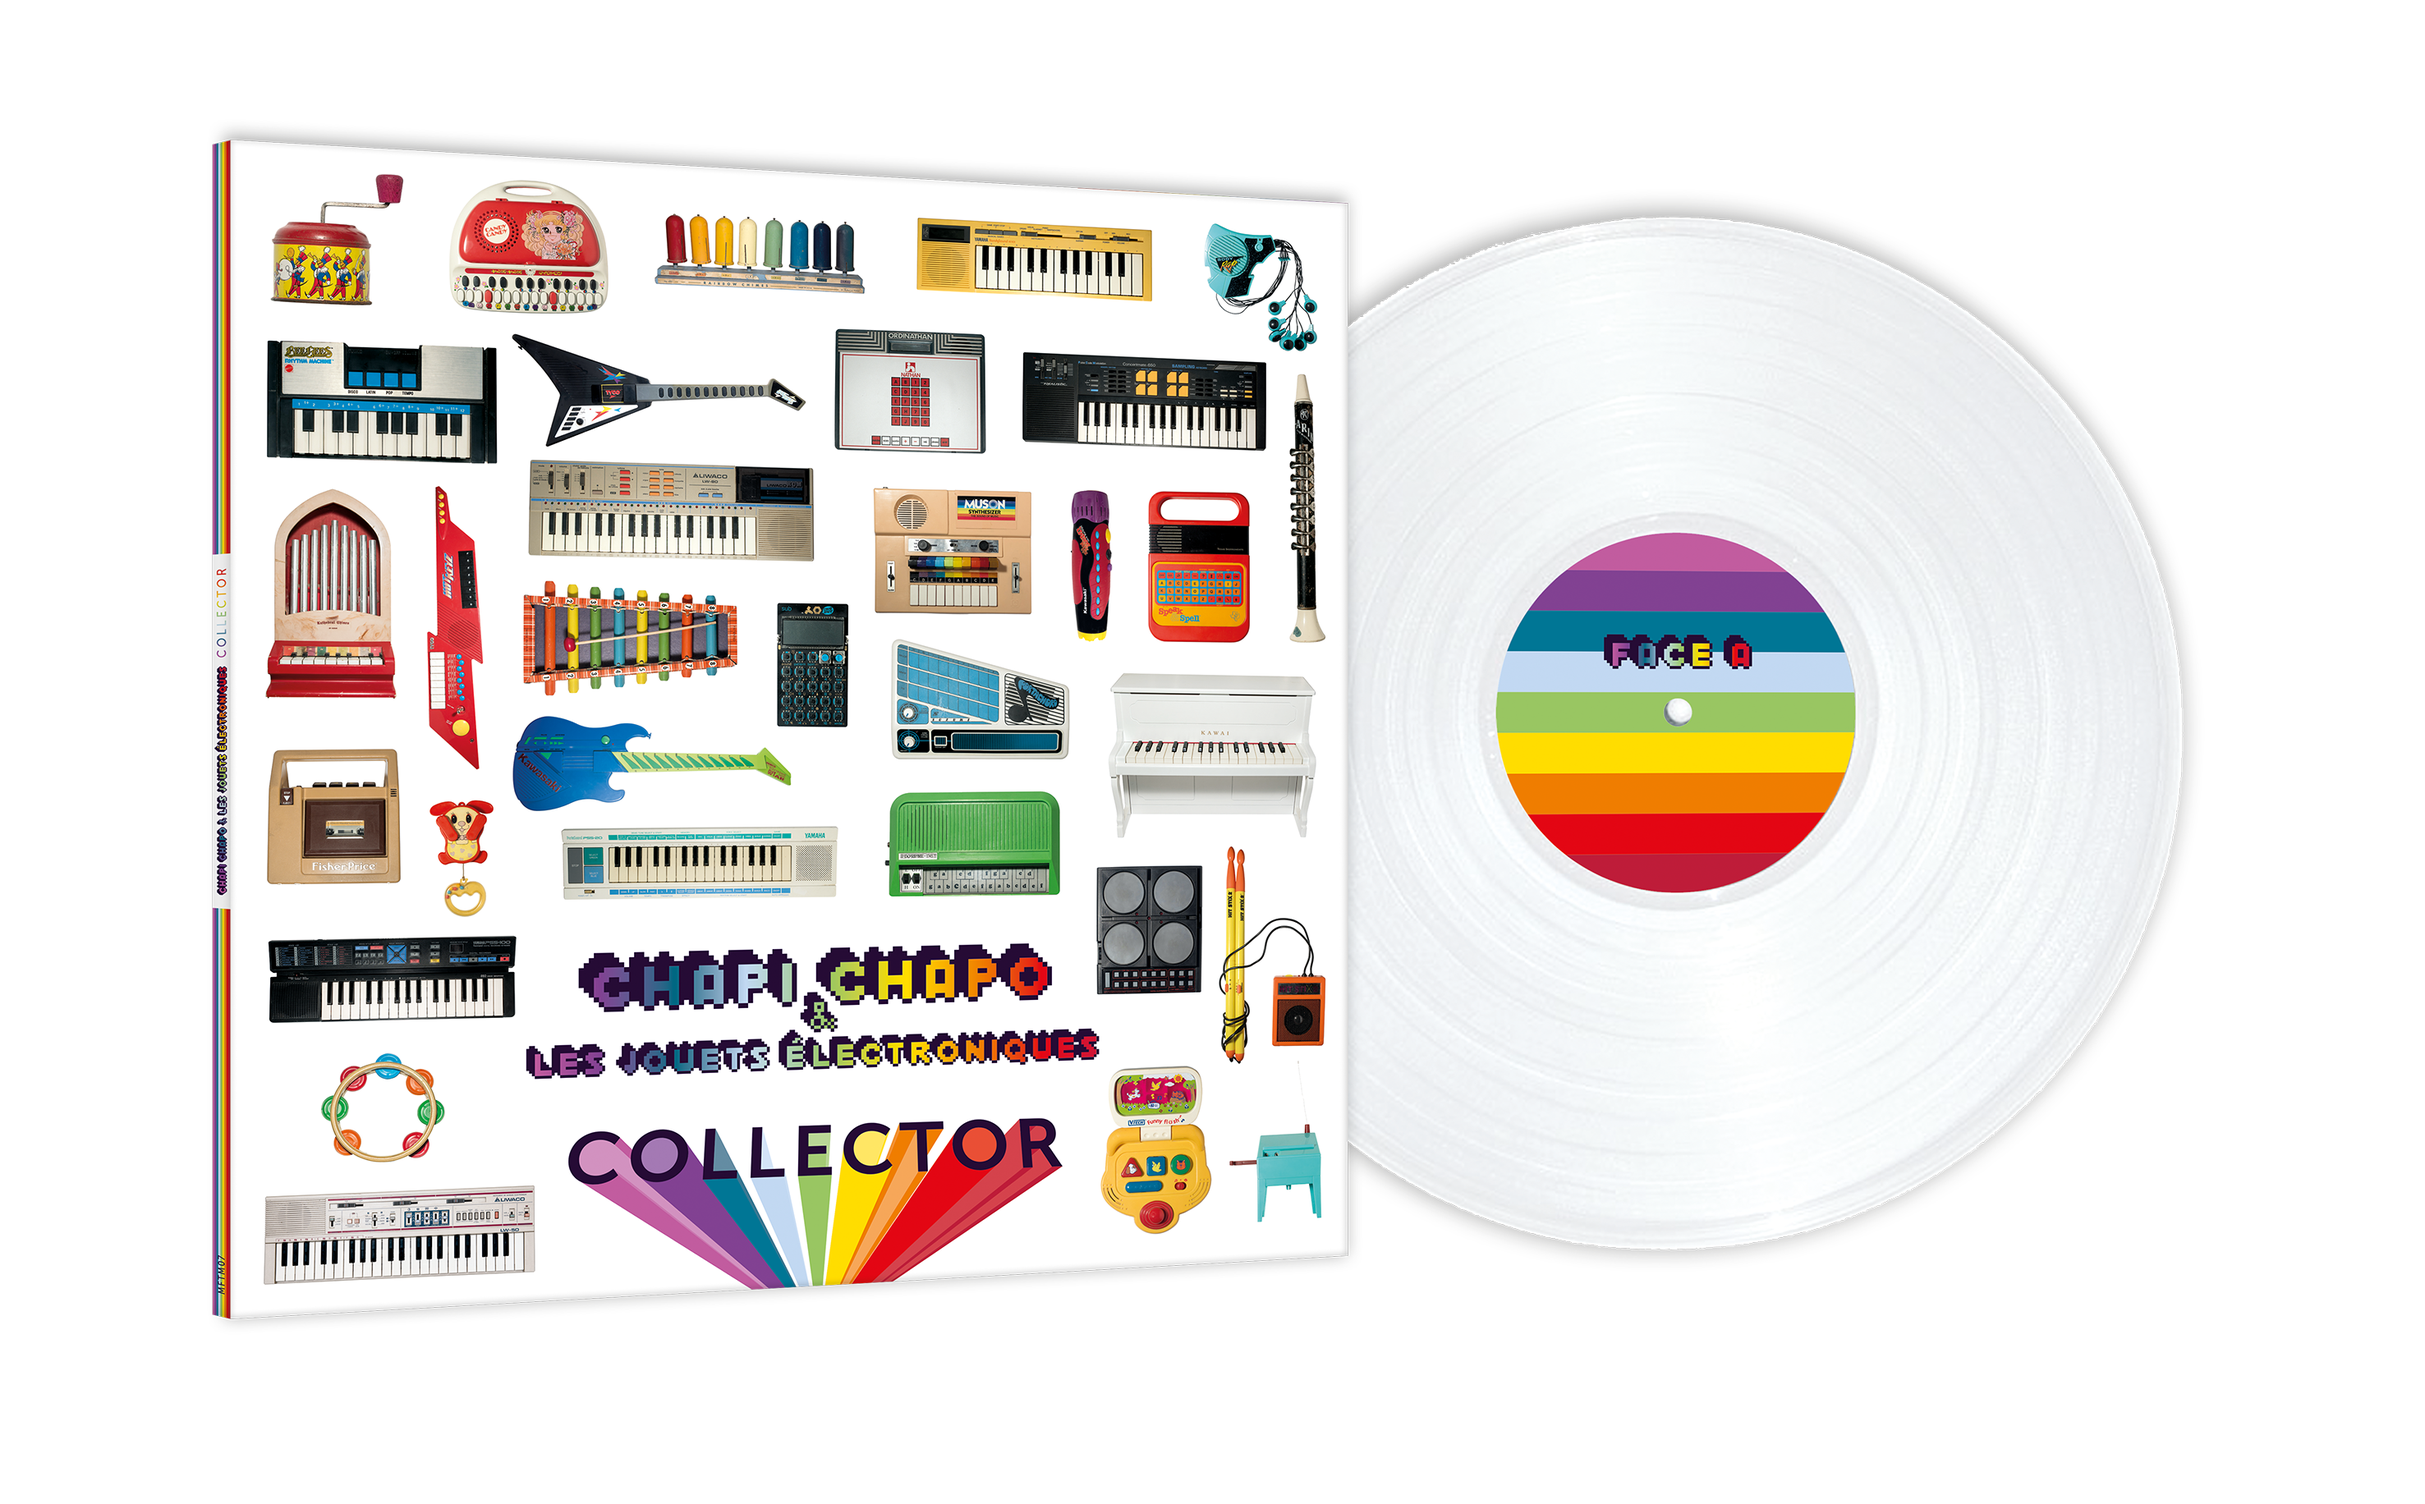
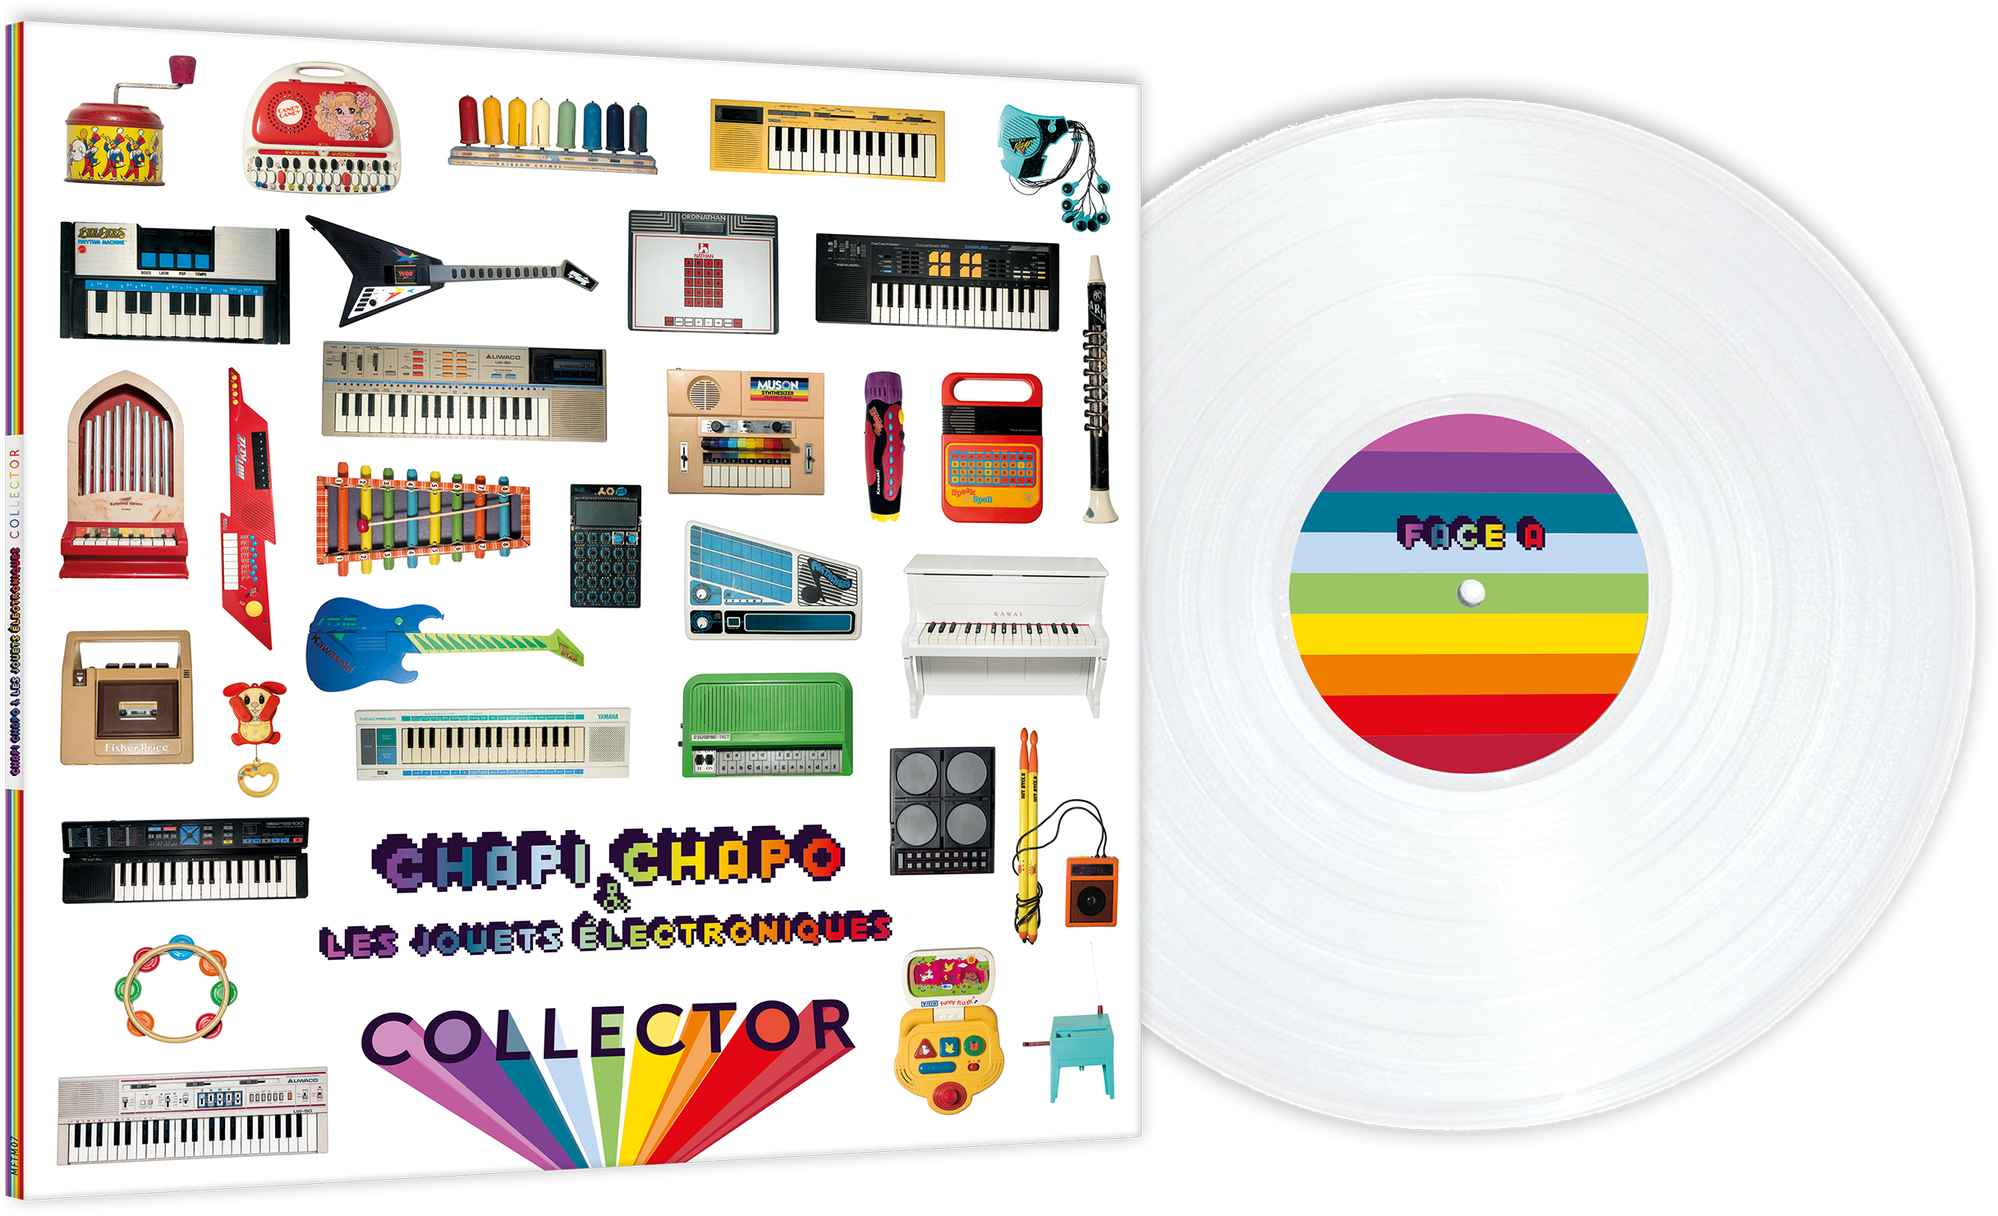
prerelease

diff --git a/src/components/Collector/Vinyle.js b/src/components/Collector/Vinyle.js
@@ -4,7 +4,7 @@ import Img from 'gatsby-image'
 import {FaShoppingCart} from 'react-icons/fa'
 import {Box, Button, Grid, jsx, Styled} from 'theme-ui'
 
-export const Vinyle = () => {
+export const Vinyle = props => {
   const data = useStaticQuery(graphql`
     query {
       speakAndSpell: file(relativePath: {eq: "jouet-speak-and-spell.png"}) {
@@ -18,16 +18,27 @@ export const Vinyle = () => {
   `)
   return (
     <Grid
-      gap={2}
-      columns={[1, 'auto 300px']}
+      gap={4}
+      columns={[1, '300px auto']}
       sx={{maxWidth: '1024px', mx: 'auto'}}
+      {...props}
     >
-      <Box>
+      <Box sx={{order: [1, 0], zIndex: 1}}>
+        <Img
+          fluid={data.speakAndSpell.childImageSharp.fluid}
+          sx={{maxWidth: '300px'}}
+        />
+      </Box>
+      <Box id="preorder" sx={{order: [0, 1], zIndex: 2}}>
         <Styled.h2>Précommander</Styled.h2>
+        <Styled.h3 sx={{color: 'red.1', p: 0}}>
+          Vinyle blanc / 12" / Gatefold
+        </Styled.h3>
         <Grid gap={2} columns={[1, 1, 2]}>
           <Box>
-            <h3>France</h3>
-            <p>19€ + 7,25€ de frais de livraison</p>
+            <p>
+              <h4>France</h4>19€ + 7,90€ de frais de livraison
+            </p>
             <form
               target="paypal"
               action="https://www.paypal.com/cgi-bin/webscr"
@@ -53,8 +64,9 @@ export const Vinyle = () => {
             </form>
           </Box>
           <Box>
-            <h3>World</h3>
-            <p>19€ + 7,25€ of shipping costs</p>
+            <p>
+              <h4>World</h4>19€ + 7,90€ including shipping costs
+            </p>
             <form
               target="paypal"
               action="https://www.paypal.com/cgi-bin/webscr"
@@ -80,12 +92,68 @@ export const Vinyle = () => {
             </form>
           </Box>
         </Grid>
-      </Box>
-      <Box>
-        <Img
-          fluid={data.speakAndSpell.childImageSharp.fluid}
-          sx={{maxWidth: '300px'}}
-        />
+        <Styled.h3 sx={{color: 'red.1', p: 0}}>CD Digipack</Styled.h3>
+        <Grid gap={2} columns={[1, 1, 2]}>
+          <Box>
+            <p>
+              <h4>France</h4>15 + 3€ de frais de livraison
+            </p>
+            <form
+              target="paypal"
+              action="https://www.paypal.com/cgi-bin/webscr"
+              method="post"
+            >
+              <input type="hidden" name="cmd" value="_s-xclick" />
+              <input
+                type="hidden"
+                name="hosted_button_id"
+                value="3GCQHL3X9WX7G"
+              />
+              <Button className="btn-three">
+                <FaShoppingCart />
+                <span sx={{ml: 2}}>Précommander</span>
+              </Button>
+              <img
+                alt=""
+                border="0"
+                src="https://www.paypalobjects.com/fr_FR/i/scr/pixel.gif"
+                width="1"
+                height="1"
+              />
+            </form>
+          </Box>
+          <Box>
+            <p>
+              <h4>World</h4>15 + 5,90€ including shipping costs
+            </p>
+            <form
+              target="paypal"
+              action="https://www.paypal.com/cgi-bin/webscr"
+              method="post"
+            >
+              <input type="hidden" name="cmd" value="_s-xclick" />
+              <input
+                type="hidden"
+                name="hosted_button_id"
+                value="YH7XETRXENTXG"
+              />
+              <Button className="btn-three">
+                <FaShoppingCart />
+                <span sx={{ml: 2}}>Preorder (World)</span>
+              </Button>
+              <img
+                alt=""
+                border="0"
+                src="https://www.paypalobjects.com/fr_FR/i/scr/pixel.gif"
+                width="1"
+                height="1"
+              />
+            </form>
+          </Box>
+        </Grid>
+        <p sx={{fontSize: 0, fontStyle: 'italic'}}>
+          Les précommandes seront expédiées en octobre.
+        </p>
       </Box>
     </Grid>
   )

diff --git a/src/components/Collector/Story.js b/src/components/Collector/Story.js
@@ -1,0 +1,61 @@
+/** @jsx jsx */
+import {graphql, useStaticQuery} from 'gatsby'
+import Img from 'gatsby-image'
+import {Box, Grid, jsx, Styled} from 'theme-ui'
+
+export const Story = props => {
+  const data = useStaticQuery(graphql`
+    query {
+      speakAndSpell: file(relativePath: {eq: "jouet-boite.png"}) {
+        childImageSharp {
+          fluid(quality: 100) {
+            ...GatsbyImageSharpFluid
+          }
+        }
+      }
+    }
+  `)
+  return (
+    <Grid
+      gap={2}
+      columns={[1, 'auto 300px']}
+      sx={{maxWidth: '1024px', mx: 'auto'}}
+      {...props}
+    >
+      <Box sx={{zIndex: 2}}>
+        <p>
+          De brocantes en vide-greniers, le musicien finistérien amasse par
+          centaines des jouets musicaux anciens du monde entier. Son 4ème album
+          s'articule autour des jouets électroniques. C'est dans une marmite
+          multicolore que prend vie <strong>Collector</strong>, un joyeux ovni
+          qui navigue entre minimal pop, électro pop et punky pop.
+        </p>
+        <Styled.h4>73 jouets musicaux vintage à l'intérieur !</Styled.h4>
+        <p>
+          Avec la participation de MAXWELL FARRINGTON (Dewaere), LAETITIA
+          SHERIFF, JAD FAIR (Half Japanese), RACHEL BARREDA HORWOOD (Trash Kit,
+          Bamboo), G.W.SOK (ex The Ex), EMILIE QUINQUIS (Tiny Feet, Yann
+          Tiersen), TROY VON BALTHAZAR (Chokebore)
+        </p>
+        <p>
+          A paraître le 06 novembre 2020 chez{' '}
+          <strong>Music From The Masses</strong>, distribution{' '}
+          <strong>[Pias]</strong>.<br />
+        </p>
+        <p>
+          <span sx={{color: 'gray'}}>Musique :</span> Patrice Elégoët |{' '}
+          <span sx={{color: 'gray'}}>Mixage :</span>
+          Thomas Poli | <span sx={{color: 'gray'}}>Mastering :</span> Sébastien
+          Lorho | <span sx={{color: 'gray'}}>Photos</span> : Jean-Philippe Corre
+          | <span sx={{color: 'gray'}}>Graphisme</span> : Amélie Grosselin
+        </p>
+      </Box>
+      <Box sx={{zIndex: 2}}>
+        <Img
+          fluid={data.speakAndSpell.childImageSharp.fluid}
+          sx={{maxWidth: 'full'}}
+        />
+      </Box>
+    </Grid>
+  )
+}

diff --git a/src/pages/index.js b/src/pages/index.js
@@ -1,17 +1,57 @@
 /** @jsx jsx */
 import {Box, jsx} from 'theme-ui'
-import {Collector, Vinyle} from '../components/Collector'
+import {Collector, Vinyle, Story} from '../components/Collector'
 import {Layout} from '../components/Layout'
 import Seo from '../components/Seo'
 
 const IndexPage = () => (
   <Layout>
-    <Box sx={{bg: 'primary', color: 'white', p: 4}}>
+    <Box sx={{bg: 'red.0', color: 'white', p: 4}}>
       <Seo title="COLLECTOR, nouvel album" />
       <Collector />
     </Box>
-    <Box sx={{bg: 'red.1', color: 'text', p: 4}}>
-      <Vinyle />
+    <Box
+      sx={{
+        position: 'relative',
+        overflow: 'hidden',
+        background: 'url(/arc.svg)',
+        backgroundRepeat: 'no-repeat',
+        //background: 'transparent',
+        '::before': {
+          content: '""',
+          position: 'absolute',
+          width: '20vw',
+          height: '100%',
+          top: 0,
+          bottom: '0',
+          left: '0',
+          zIndex: '0',
+          //transform: 'rotate(60deg)',
+        },
+      }}
+    >
+      <Box
+        sx={{
+          zIndex: '2',
+          color: 'text',
+          p: 4,
+        }}
+      >
+        <Story
+          sx={{
+            background: ['rgba(255,255,255,0.45)'],
+            p: 3,
+          }}
+        />
+      </Box>
+      <Box sx={{background: 'transparent', color: 'text', p: 4}}>
+        <Vinyle
+          sx={{
+            background: ['rgba(255,255,255,0.45)'],
+            p: 3,
+          }}
+        />
+      </Box>
     </Box>
   </Layout>
 )

diff --git a/src/components/Collector/index.js b/src/components/Collector/index.js
@@ -1,7 +1,11 @@
 /** @jsx jsx */
 import {graphql, useStaticQuery} from 'gatsby'
 import Img from 'gatsby-image'
+import {IoIosArrowDropdown} from 'react-icons/io'
 import {Box, Grid, jsx, Styled} from 'theme-ui'
+import AnchorLink from 'react-anchor-link-smooth-scroll'
+
+export {Story} from './Story'
 export {Vinyle} from './Vinyle'
 
 export const Collector = () => {
@@ -25,6 +29,35 @@ export const Collector = () => {
         <Styled.h1>Collector</Styled.h1>
         <Styled.h2>Le nouvel album de Chapi Chapo</Styled.h2>
         <Img fluid={data.collectorLP.childImageSharp.fluid} />
+        <Box
+          sx={{
+            display: 'inline-block',
+            p: 2,
+          }}
+        >
+          <AnchorLink
+            href={`#preorder`}
+            sx={{
+              color: 'white',
+              textTransform: 'uppercase',
+              textDecoration: 'none',
+              borderBottom: '1px solid',
+              borderColor: 'rgba(255,255,255,0.1)',
+              pb: 1,
+              mb: 2,
+              display: 'block',
+              ':hover': {
+                borderColor: 'rgba(255,255,255,0.5)',
+                transition: 'all 0.3s ease-in',
+                transform: 'scale(1.1, 1.1)',
+              },
+            }}
+          >
+            Précommander
+          </AnchorLink>
+
+          <IoIosArrowDropdown />
+        </Box>
       </Box>
     </Grid>
   )

diff --git a/src/gatsby-plugin-theme-ui/index.js b/src/gatsby-plugin-theme-ui/index.js
@@ -19,6 +19,7 @@ export default {
     pink: '#bf5e9e',
     purple: '#814490',
     orange: '#ed7c20',
+    gray: '#444',
   },
   fonts: {
     ...tailwind.fonts,
@@ -33,8 +34,8 @@ export default {
       color: 'white',
       ':hover': {
         cursor: 'pointer',
-        bg: 'white',
-        color: 'text',
+        bg: 'red.0',
+        color: 'white',
         boxShadow: '0px 1px 10px rgba(0,0,0,0.25)',
       },
     },
@@ -43,7 +44,7 @@ export default {
     ...tailwind.styles,
     h1: {
       ...tailwind.styles.h1,
-      fontFamily: 'heading',
+      //fontFamily: 'heading',
       fontFamily: '"Raleway", sans-serif',
       fontWeight: '100',
       fontSize: [5, 6, 7],
@@ -57,6 +58,12 @@ export default {
       fontFamily: '"Raleway", sans-serif',
       fontWeight: '800',
       fontSize: [1, 2, 4, 5],
+    },
+    h3: {
+      m: 0,
+      p: 0,
+      'margin-block-start': 0,
+      'margin-block-end': 0,
     },
     root: {
       ...tailwind.styles.root,
@@ -116,7 +123,7 @@ export default {
       },
     },
     footer: {
-      bg: 'lightblue',
+      bg: 'darkblue',
       color: 'white',
       a: {color: 'white'},
       p: 4,

diff --git a/src/components/Layout/Footer/index.js b/src/components/Layout/Footer/index.js
@@ -8,7 +8,10 @@ export const Footer = () => {
   return (
     <Box as="footer" sx={{variant: 'layout.footer'}}>
       <Box>
-        © {new Date().getFullYear()} <a href={url}>Chapi Chapo</a>
+        © {new Date().getFullYear()}{' '}
+        <a href={url} sx={{textDecoration: 'none'}}>
+          Chapi Chapo
+        </a>
         {` `}
       </Box>
       <Box>

diff --git a/src/components/Layout/Socials.js b/src/components/Layout/Socials.js
@@ -23,6 +23,7 @@ export const Socials = props => {
         sx={{
           listStyle: 'none',
           justifyContent: 'center',
+          p: 0,
           '&>li': {display: 'inline-flex', pl: 3},
         }}
       >

diff --git a/src/gatsby-plugin-theme-ui/custom.css b/src/gatsby-plugin-theme-ui/custom.css
@@ -34,3 +34,8 @@
   opacity: 1;
   transform: scale(1, 1);
 }
+
+h4 {
+  margin-block-end: 0;
+  margin-block-start: 0;
+}
